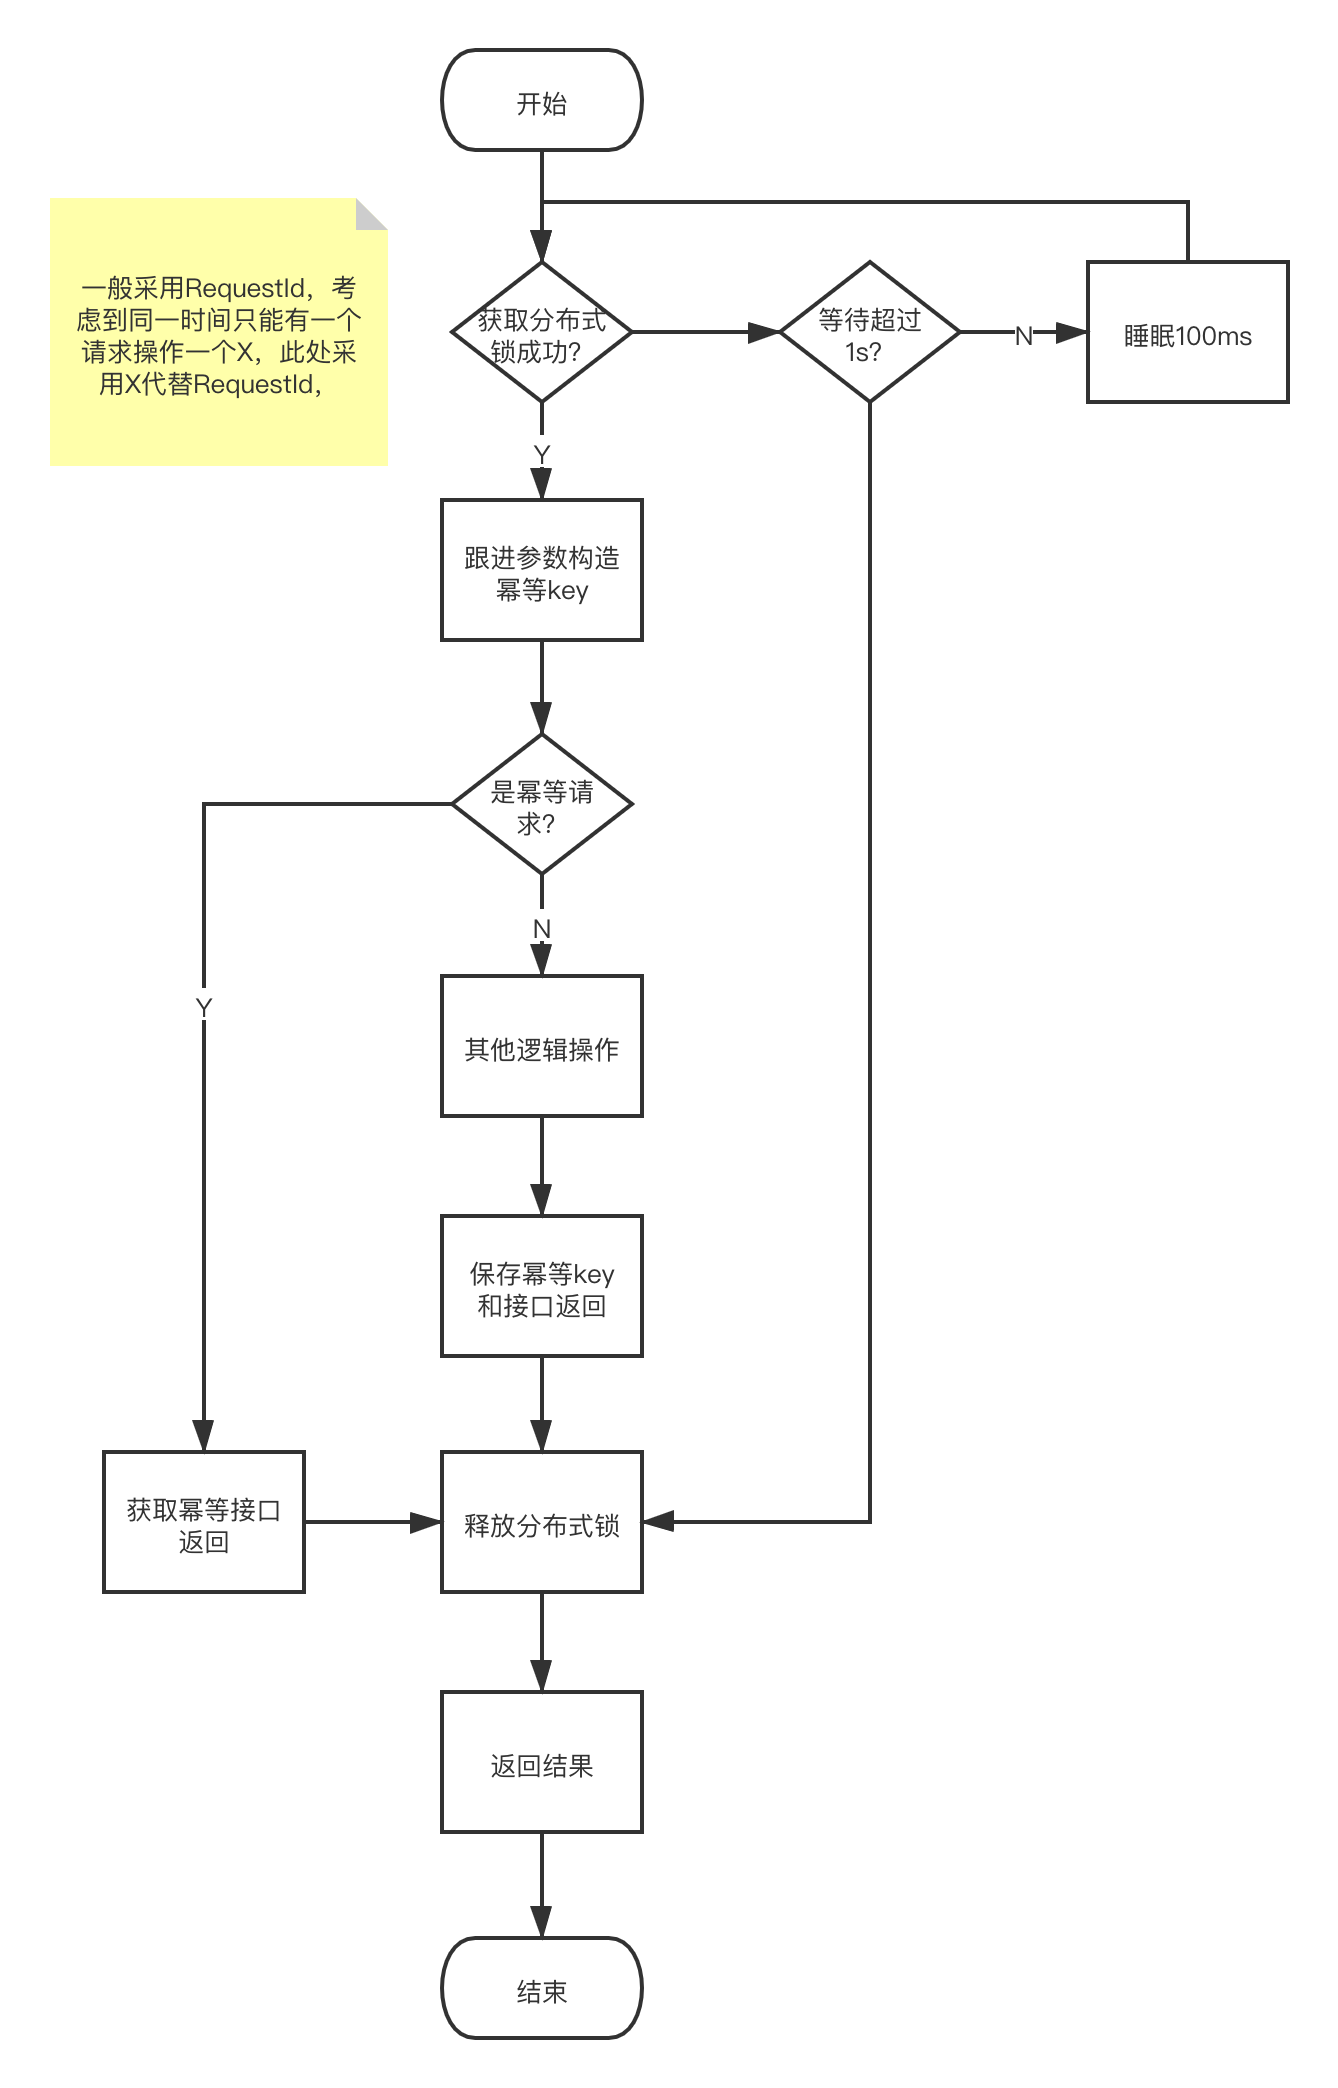
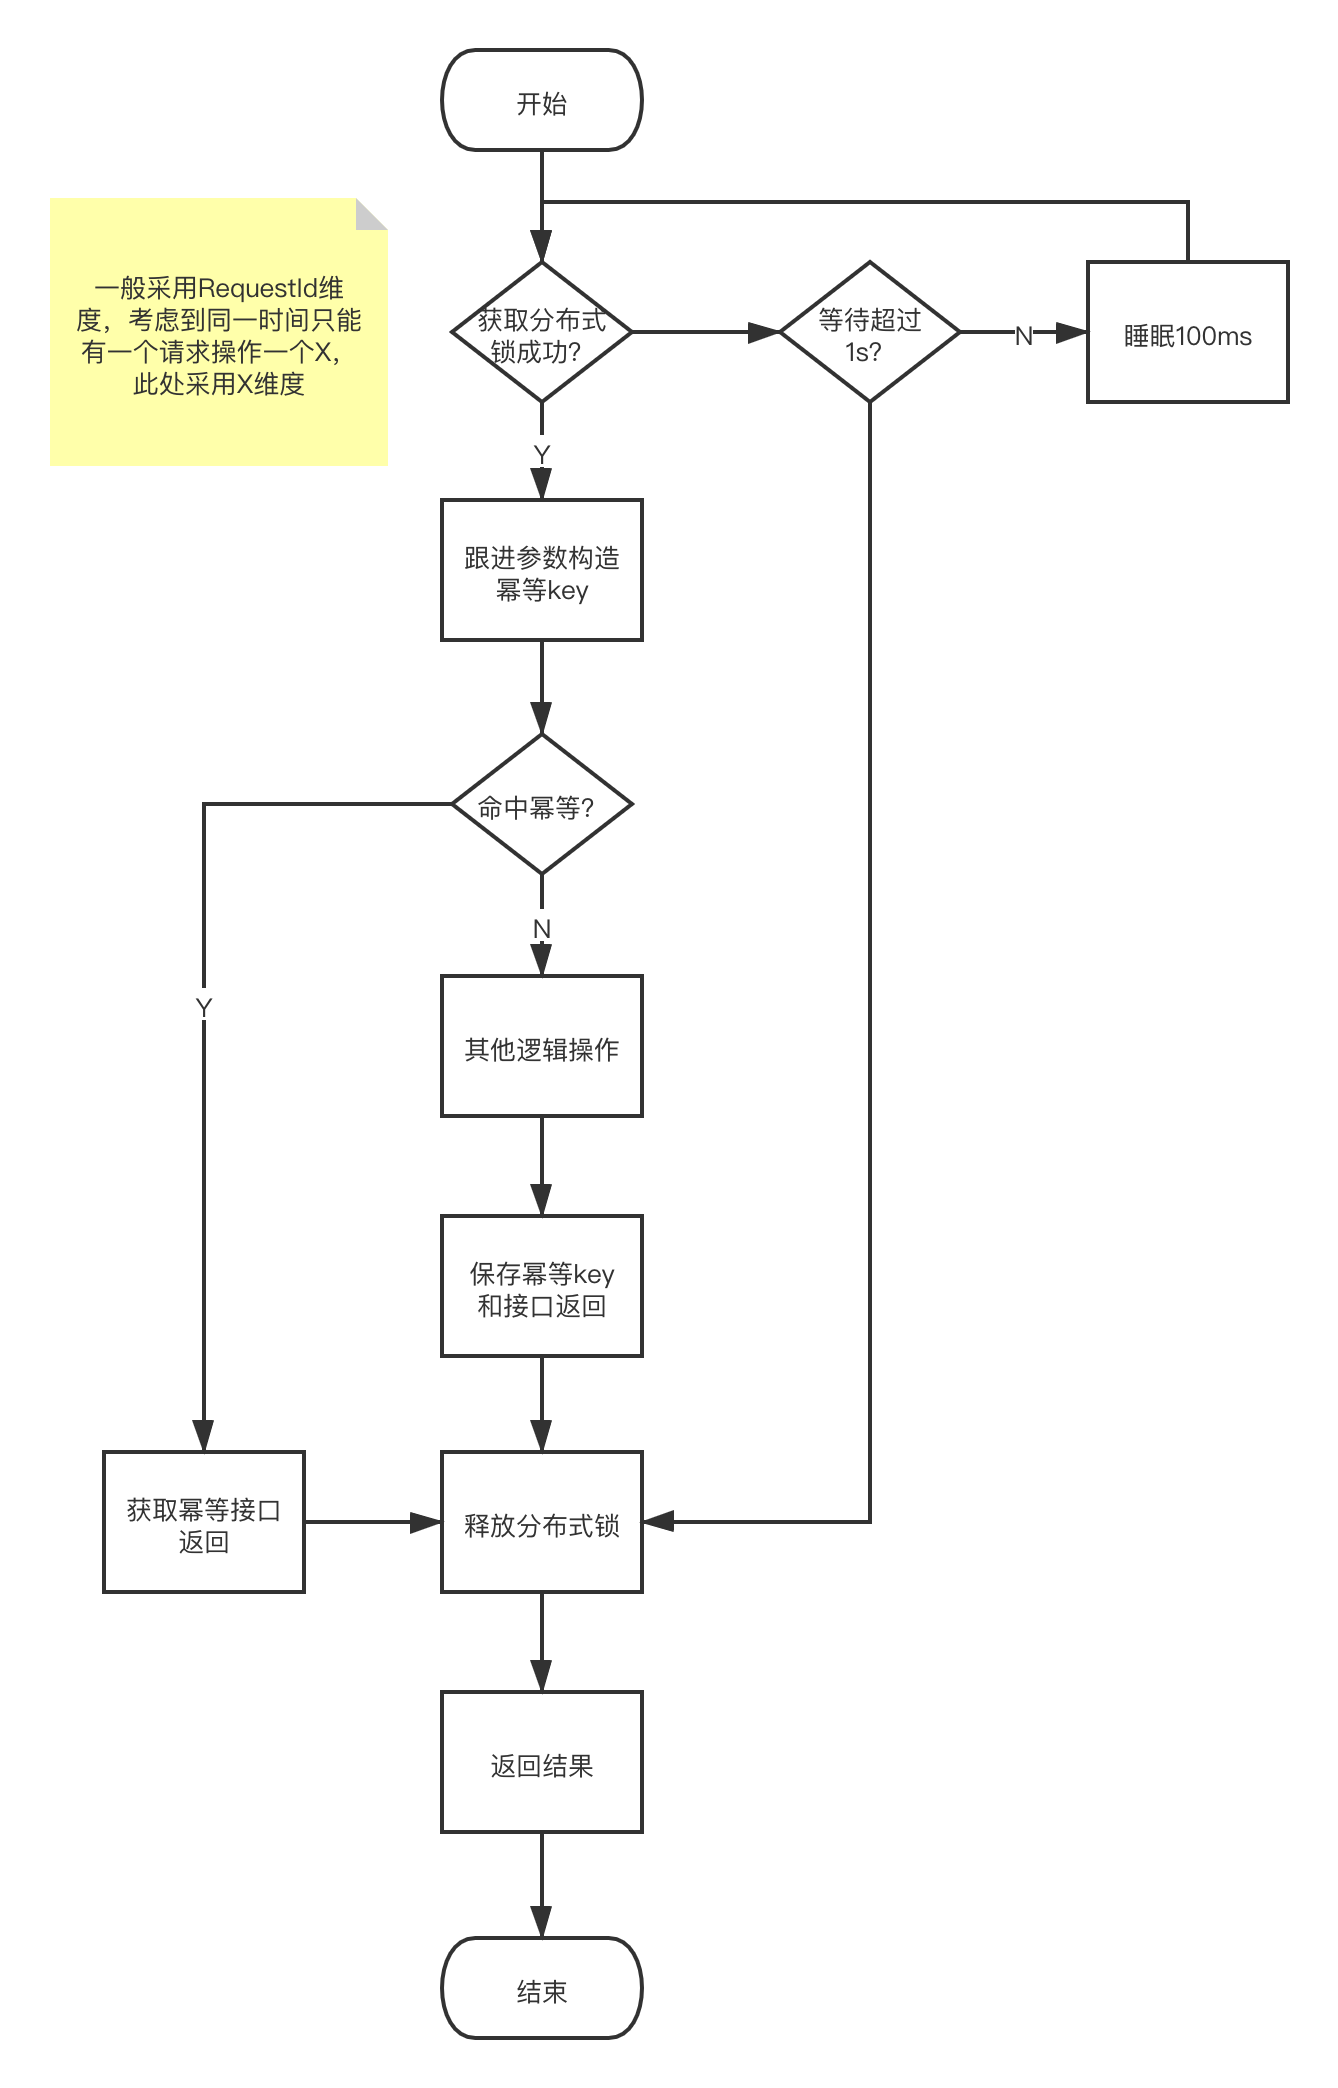
add performance-optimization

Changed region(s): [[0.0613, 0.1245, 0.2758, 0.1868], [0.3677, 0.3736, 0.4596, 0.4047]]

diff --git a/content/posts/2021/2021-05-09-performance-optimization.md b/content/posts/2021/2021-05-09-performance-optimization.md
@@ -1,9 +1,160 @@
 ---
-title: 记一次TPS优化
+title: 记一次接口优化
 tags: [experience]
-description: 记一次TPS优化
+description: 记一次接口优化
 keywords: 优化经验
 author: sunbufu
-date: 2020-09-13T00:00:00+00:00
+date: 2021-05-09T00:00:00+00:00
 draft: true
 ---
+# 1、优化背景
+最近在做一个隐私号相关的服务，其中一个主要的接口遇到了性能瓶颈，本文把优化的思路、过程和结果记录下来，以供备忘和之后参考。
+
+**基础概念**
+
++ 隐私号服务：隐私保护通话（Private Number），针对企业的各种商业场景，在不增加SIM卡的情况下，为企业的用户增加隐私号码，使其既能享受优质的通话和短信服务，又能隐藏真实号码，保护个人隐私。—[华为云](https://www.huaweicloud.com/product/privatenumber.html)
+
++ AXB：三个号码的绑定关系，其中X为隐私号码，A号码和B号码之间通过X号码进行通话。比如，在打车场景下，司机端为A号码，乘客端为B号码，之间通过X号码通话，两端看到的也都是X号码。（PS. 此处先不引入透传概念）
+
++ AX：两个号码的绑定关系，其中X为隐私号码，任意B号码呼叫X号码，都可以呼叫到A号码。
+
++ 绑定冲突：假设同时存在号码A1X1B1与A1X1B2，那么A1拨打X1的时候，就不知道应该转给B1还是B2了，这种情况就是一种绑定冲突。同理假设同时存在A2X2与A3X2，也会出现绑定冲突。
+
+   所以在同一个X号码的前提下，旧AXB关系中AB不允许与该X建立任何关系，旧AX关系中的X不允许建立任何关系，如下所示：
+
+|           |       新AXB关系        | 新AX关系 |
+| :-------: | :--------------------: | :------: |
+| 旧AXB关系 | AB号码有一个相同即冲突 |   冲突   |
+| 旧AX关系  |          冲突          |   冲突   |
+
+# 2、接口逻辑
+
+隐私号服务提供绑定接口，该接口既支持AX绑定，也支持AXB绑定，除了要建立绑定关系之外，还要进行绑定冲突的校验，保证数据的正确性。主要逻辑如下所示：
+
+![接口逻辑](/posts/2021/bind-flow.png)
+
+如上图所示，主要逻辑包括幂等校验和冲突校验，且全部借助DB实现，简略版sql（忽略过期时间等附加参数）如下所示：
+
+1. 幂等校验
+
+   ```sql
+   select *
+   from 绑定关系表
+   where 状态 = 已绑定
+   and A = A
+   and X = X
+   and B = B
+   ```
+
+2. AX冲突校验
+
+   ```sql
+   select *
+   from 绑定关系表
+   where 状态 = 已绑定
+   and X = X
+   and B = ''
+   ```
+
+3. AXB冲突校验
+
+   ```sql
+   select *
+   from 绑定关系表
+   where 状态 = 已绑定
+   and X = X
+   and (A in (A, B) or B in (A, B))
+   ```
+
+这种完全依赖DB的方式简单且易懂，但是在绑定关系表数量达到一定值且QPS也升上来时，这种单纯依赖DB的做法就显得力不从心了。一是DB比较脆弱QPS升上来时，DB的cpu飙升；二是随着绑定关系数量的增多，虽然有索引加持，但是QPS的压力全落在DB上，还是很容易出现慢sql，而且一旦出现慢sql，用户就会重试导致qps增高，DB就崩溃了，从而产生恶性循环最终导致整个服务的不可用。
+
+# 3、 优化策略
+
+经过以上分析，我们很容易判断出性能瓶颈就是在DB上，所以优化的思路就围绕着减轻DB压力展开了。
+
+1. 幂等校验转移到缓存中，减轻DB压力
+2. 绑定冲突校验转移到缓存中，减轻DB压力
+3. 建立定时清理无效数据的机制，保证表记录在一个健康的级别内
+4. 建立用户级别的QPS限制机制，避免因为个别用户导致整体服务不可用
+
+其中3和4都是辅助机制，本文中就不在详细描述了。
+
+## 3.1 幂等校验
+
+如果现在去谷歌一下，相信可以找到很多现成方案，这里就不详细列举和对比每个方案的不同了，最后实现了一个比较成熟合适的方案如下：
+
+![幂等校验](/posts/2021/idempotent-flow.png)
+
+## 3.2 冲突校验
+
+冲突校验比较特殊，没有成熟的方案用来参考，但是基本思路是一致的，就是减轻DB压力，把冲突校验也转移到缓存上来实现。
+
+想出的方案大概有两种：
+
+1. **把XA和XB关系作为key**
+
+   **例一：**
+
+   1 新增A1X1B1时，缓存中新增X1A1和X1B1
+
+   2 新增A2X1时，需在db判断
+
+   3 新增A1X1B2时，因为缓存存在X1A1，则冲突
+
+   4 新增A2X1B2时，缓存不存在X1A2、X1B2和X1，则不冲突
+
+   **例二：**
+
+   1 新增A1X1时，缓存中新增X1
+
+   2 新增A2X1时，因为缓存存在X1，则冲突
+
+   3 新增A2X1B2时，因为缓存存在X1，则冲突
+
+   **优点：**
+
+   + 可以针对单独的绑定关系设置过期时间
+
+   **缺点：**
+
+   + 无法判断是否存在AX绑定关系，即无法处理添加AX时的情况
+
+2. **用X号码做key，维护一个set，set的内容为AB号码**
+
+   **例一：**
+
+   1 新增A1X1B1时，redis中新增 X1=[A1,B1]
+
+   2 新增A2X1时，判断redis中的X1中只要有值就算冲突
+
+   3 新增A1X1B2时，因为redis的X1中已经存在A1，则冲突
+
+   4 新增A2X1B2时，redis的X1中不存在A2和B1，则不冲突
+
+   **例二：**
+
+   1 新增A1X1时，redis中新增X1=[A1]
+
+   2 新增A2X1时，因为redis的X1中有值，则冲突
+
+   3 新增A2X1B2时，因为redis的X1中只有一个值，为旧有AX关系，则冲突
+
+   **优点：**
+
+   + 可以处理AX的情况
+
+   **缺点：**
+
+   + 数据维护过程比较复杂
+
+经过对比和讨论，最终采用方案2，流程图如下：
+
+![绑定校验](/posts/2021/conflict-flow.png)
+
+# 4 优化总结
+
+经过以上的优化，在保证接口的响应时长不变的前提下，最大QPS上升了一个数量级，具体的数值不方便列举。随着业务的增长也可以通过横向增加实例数量来支撑了，但是如果想在上一个数量级的话，DB还会成为瓶颈，可能就得考虑分库或者单独部署了。
+
+碍于篇幅，一些不太重要的地方没有在本文中一一列出，感兴趣的同学也可以email我。
+
+好久没写博客了，希望本文可以给你带来一点点帮助，也希望我可以平衡工作和生活吧。
